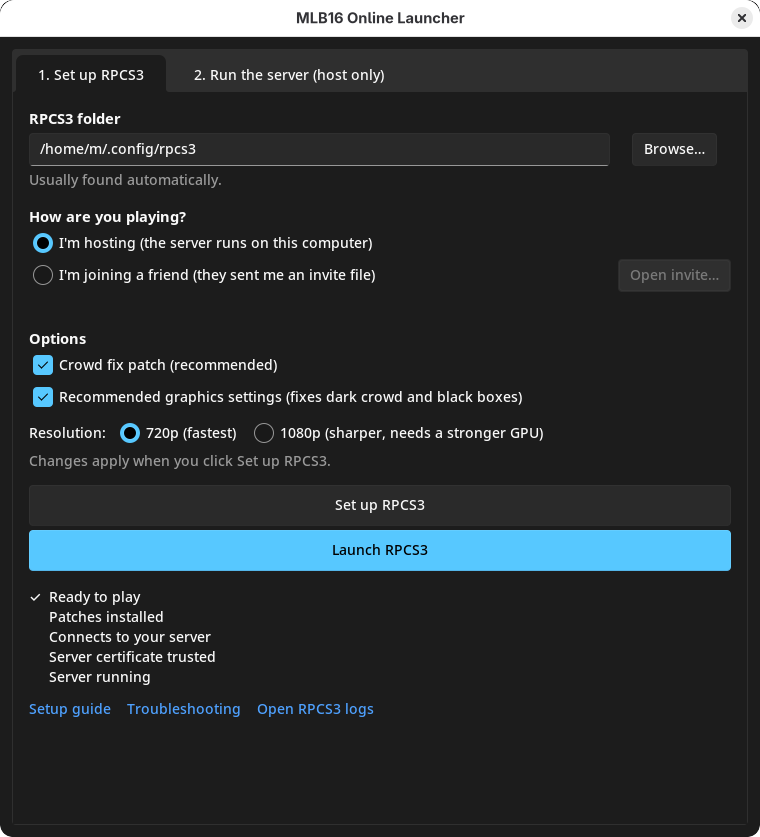
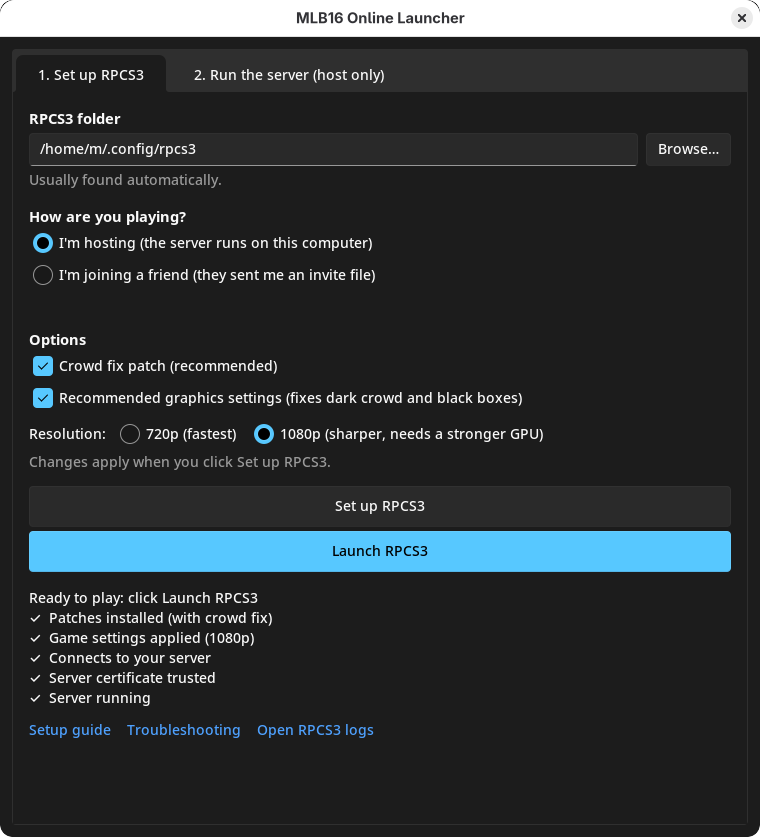
Launcher v0.3.2: setup checklist follows the chosen options
- The checklist compares RPCS3's files with the options on the page (crowd fix, graphics, resolution), so a changed
  option shows as needing Set up and turns back to a check after it
- Every line has a check or circle; the top line names the next step
- Launch is highlighted only when everything is ready, including the host's server
- Open invite sits under "I'm joining a friend" and only shows when joining

diff --git a/app/mlb16_online.py b/app/mlb16_online.py
@@ -153,27 +153,28 @@ class App(tk.Tk):
         ttk.Radiobutton(f, text="I'm hosting (the server runs on this computer)", variable=self.mode, value='host',
                         command=self.refresh).grid(row=4, column=0, columnspan=3, sticky='w', pady=2)
         ttk.Radiobutton(f, text="I'm joining a friend (they sent me an invite file)", variable=self.mode, value='join',
-                        command=self.refresh).grid(row=5, column=0, columnspan=2, sticky='w', pady=2)
-        self.invite_btn = ttk.Button(f, text='Open invite…', command=self.open_invite)
-        self.invite_btn.grid(row=5, column=2, padx=(8, 0))
-        self.invite_label = ttk.Label(f, style='Hint.TLabel')
-        self.invite_label.grid(row=6, column=0, columnspan=3, sticky='w', padx=(28, 0))
+                        command=self.refresh).grid(row=5, column=0, columnspan=3, sticky='w', pady=2)
+        inv = ttk.Frame(f)   # shown only when joining; the empty label keeps the spacing when hosting
+        inv.grid(row=6, column=0, columnspan=3, sticky='w', padx=(28, 0), pady=(2, 0))
+        self.invite_btn = ttk.Button(inv, text='Open invite…', command=self.open_invite)
+        self.invite_label = ttk.Label(inv, style='Hint.TLabel')
+        self.invite_label.pack(side='right', padx=(10, 0))
 
         ttk.Label(f, text='Options', font=('', 11, 'bold')).grid(row=7, column=0, columnspan=3, sticky='w',
                                                                  pady=(16, 0))
         self.crowd = tk.BooleanVar(value=self.cfg['crowd_fix'])
         self.graphics = tk.BooleanVar(value=self.cfg['graphics'])
-        ttk.Checkbutton(f, text='Crowd fix patch (recommended)', variable=self.crowd).grid(
+        ttk.Checkbutton(f, text='Crowd fix patch (recommended)', variable=self.crowd, command=self.refresh).grid(
             row=8, column=0, columnspan=3, sticky='w', pady=2)
         ttk.Checkbutton(f, text='Recommended graphics settings (fixes dark crowd and black boxes)',
-                        variable=self.graphics).grid(row=9, column=0, columnspan=3, sticky='w', pady=2)
+                        variable=self.graphics, command=self.refresh).grid(row=9, column=0, columnspan=3, sticky='w', pady=2)
         pic = ttk.Frame(f)
         pic.grid(row=10, column=0, columnspan=3, sticky='w', pady=(6, 0))
         self.picture = tk.StringVar(value=self.cfg['picture'])
         ttk.Label(pic, text='Resolution:').pack(side='left')
-        ttk.Radiobutton(pic, text='720p (fastest)', variable=self.picture, value='720p').pack(side='left', padx=(10, 0))
+        ttk.Radiobutton(pic, text='720p (fastest)', variable=self.picture, value='720p', command=self.refresh).pack(side='left', padx=(10, 0))
         ttk.Radiobutton(pic, text='1080p (sharper, needs a stronger GPU)', variable=self.picture,
-                        value='1080p').pack(side='left', padx=(10, 0))
+                        value='1080p', command=self.refresh).pack(side='left', padx=(10, 0))
         ttk.Label(f, text='Changes apply when you click Set up RPCS3.', style='Hint.TLabel').grid(
             row=11, column=0, columnspan=3, sticky='w', pady=(4, 0))
 
@@ -295,14 +296,14 @@ class App(tk.Tk):
 
     def refresh(self):
         hosting = self.mode.get() == 'host'
-        self.invite_btn.config(state='disabled' if hosting else 'normal')
         if hosting:
+            self.invite_btn.pack_forget()
             self.invite_label.config(text='')
-        elif self.cfg.get('invite_host'):
-            self.invite_label.config(text=f'Invite loaded: server at {self.cfg["invite_host"]}')
         else:
-            self.invite_label.config(text='No invite loaded')
-        ready = False
+            self.invite_btn.pack(side='left', before=self.invite_label)
+            self.invite_label.config(text=f'Loaded: server at {self.cfg["invite_host"]}' if self.cfg.get('invite_host')
+                                     else 'No invite loaded yet')
+        set_up = ready = False
         r = s.Rpcs3(self.rpcs3_dir.get().strip()) if self.rpcs3_dir.get().strip() else None
         if not r or r.problem():
             text = 'Pick your RPCS3 folder.' if not r else r.problem()
@@ -311,24 +312,27 @@ class App(tk.Tk):
             ca = s.installed_ca(r)
             server = s.game_config_server(r)
             where = 'your server' if server == '127.0.0.1' else server
-            rows = [(s.patches_status(r), 'Patches installed', 'Patches'),
+            crowd, graphics, picture = self.crowd.get(), self.graphics.get(), self.picture.get()
+            # each row compares RPCS3's files with the options chosen above, so a changed option shows up here
+            rows = [(s.patches_status(r, crowd), 'Patches installed' + (' (with crowd fix)' if crowd else ''),
+                     'Patches'),
+                    (s.game_config_status(r, graphics, picture), f'Game settings applied ({picture})', 'Game settings'),
                     (server is not None and server == want_ip, f'Connects to {where}', 'Server address'),
                     (ca is not None and isinstance(want_ca, bytes) and ca == want_ca, 'Server certificate trusted',
                      'Server certificate')]
-            if not any(ok for ok, _, _ in rows):
-                text = 'Not set up yet: click "Set up RPCS3".'
-            elif all(ok for ok, _, _ in rows):
-                ready = True
-                text = '✓  Ready to play\n' + '\n'.join('     ' + done for _, done, _ in rows)
-                if hosting:   # the most common first-session failure: everything set up but no server
-                    text += ('\n     Server running' if self.server_running() else
-                             '\n○  Server not running: start it in tab 2 before you launch the game')
-            else:   # e.g. a new invite was opened: say what the next Set up will change
-                text = 'Click "Set up RPCS3" to finish:\n' + '\n'.join(
-                    ('✓  ' + done) if ok else ('○  ' + todo + ': needs setup') for ok, done, todo in rows)
+            lines = [('✓  ' + done) if ok else ('○  ' + todo + ': needs Set up') for ok, done, todo in rows]
+            set_up = all(ok for ok, _, _ in rows)
+            if hosting:   # the most common first-session failure: everything set up but no server
+                lines.append('✓  Server running' if self.server_running() else '○  Server not running: start it in tab 2')
+            ready = set_up and (not hosting or self.server_running())
+            head = ('Open the invite file your friend sent you, then click "Set up RPCS3":' if want_ip is None else
+                    'Ready to play: click Launch RPCS3' if ready else
+                    'Almost there: start the server in tab 2' if set_up else
+                    'Click "Set up RPCS3" to apply:')
+            text = head + '\n' + '\n'.join(lines)
         self.status.config(text=text)
-        # point at the next step: Set up until it's done, then Launch
-        self.setup_btn.config(style='TButton' if ready else 'Accent.TButton')
+        # highlight the next step: Set up until it's done, Launch once everything is ready
+        self.setup_btn.config(style='TButton' if set_up else 'Accent.TButton')
         self.launch_btn.config(style='Accent.TButton' if ready else 'TButton')
 
     # ------------------------------------------------------------ host tab

diff --git a/app/setup_logic.py b/app/setup_logic.py
@@ -202,10 +202,12 @@ def install_patches(r, crowd_fix=True):
 
 
 def patches_status(r, crowd_fix=True):
+    """True if the online patches are installed and ticked, and the crowd fix is ticked exactly when wanted."""
     cfg = load_yaml(r.patch_config).get(PPU_HASH, {})
-    want = patch_names('Version: 1.2\n\n' + PPU_HASH + ':\n' + patch_body(bundle_dir() / 'patches' / 'MLB16_online.yml'))
-    on = [n for n in want if cfg.get(n, {}).get('MLB The Show 16', {}).get(TITLE_ID, {}).get('01.10', {}).get('Enabled') == 'true']
-    return (r.patches / f'{TITLE_ID}_patch.yml').exists() and len(on) == len(want)
+    names = lambda f: patch_names('Version: 1.2\n\n' + PPU_HASH + ':\n' + patch_body(bundle_dir() / 'patches' / f))
+    on = lambda n: cfg.get(n, {}).get('MLB The Show 16', {}).get(TITLE_ID, {}).get('01.10', {}).get('Enabled') == 'true'
+    return ((r.patches / f'{TITLE_ID}_patch.yml').exists() and all(on(n) for n in names('MLB16_online.yml'))
+            and all(on(n) == crowd_fix for n in names('MLB16_crowd_fix.yml')))
 
 
 # ---------------------------------------------------------------- per-game config
@@ -225,6 +227,14 @@ def install_game_config(r, server_ip, graphics=True, picture='720p'):
         video.update(GRAPHICS)
     video['Resolution Scale'] = SCALES[picture]
     write_text(r.custom_config, dump_yaml(cfg))
+
+
+def game_config_status(r, graphics=True, picture='720p'):
+    """True if this game's config has the settings install_game_config would write with these options."""
+    cfg = load_yaml(r.custom_config)
+    core, video = cfg.get('Core', {}), cfg.get('Video', {})
+    want = {**(GRAPHICS if graphics else {}), 'Resolution Scale': SCALES[picture]}
+    return (all(core.get(k) == v for k, v in STABILITY.items()) and all(video.get(k) == v for k, v in want.items()))
 
 
 def game_config_server(r):

diff --git a/app/test_setup_logic.py b/app/test_setup_logic.py
@@ -41,6 +41,7 @@ for windows in (False, True):
         s.install_patches(r, crowd_fix=False)
         crowd = s.load_yaml(r.patch_config)[s.PPU_HASH]['Crowd fix (single-draw crowd batches)']
         assert crowd['MLB The Show 16']['BCUS01089']['01.10']['Enabled'] == 'false'
+        assert s.patches_status(r, crowd_fix=False) and not s.patches_status(r, crowd_fix=True)
 
         c0 = s.load_yaml(r.custom_config)
         assert c0['Video']['Resolution Scale'] == '150'
@@ -51,11 +52,13 @@ for windows in (False, True):
         assert c['Core']['PPU Decoder'] == 'Recompiler (LLVM)' and c['Video']['Resolution Scale'] == '100'
         assert c['Core']['SPU Block Size'] == 'Safe' and c['Core']['Accurate SPU Reservations'] == 'true'
         assert c['Video']['Strict Rendering Mode'] == 'false' and c['Video']['Resolution'] == '1280x720'
+        assert s.game_config_status(r, picture='720p') and not s.game_config_status(r, picture='1080p')
         s.install_game_config(r, '100.1.2.3', graphics=False, picture='1080p')
         c = s.load_yaml(r.custom_config)
         assert c['Video']['Resolution Scale'] == '150' and c['Core']['SPU Block Size'] == 'Safe'
         assert c['Video']['Write Color Buffers'] == 'true' and c['Net']['PSN status'] == 'RPCN'
         assert s.game_config_server(r) == '100.1.2.3'
+        assert s.game_config_status(r, graphics=False, picture='1080p') and s.game_config_status(r, picture='1080p')
 
         certs = root / 'hostcerts'
         s.make_server_certs(certs)
